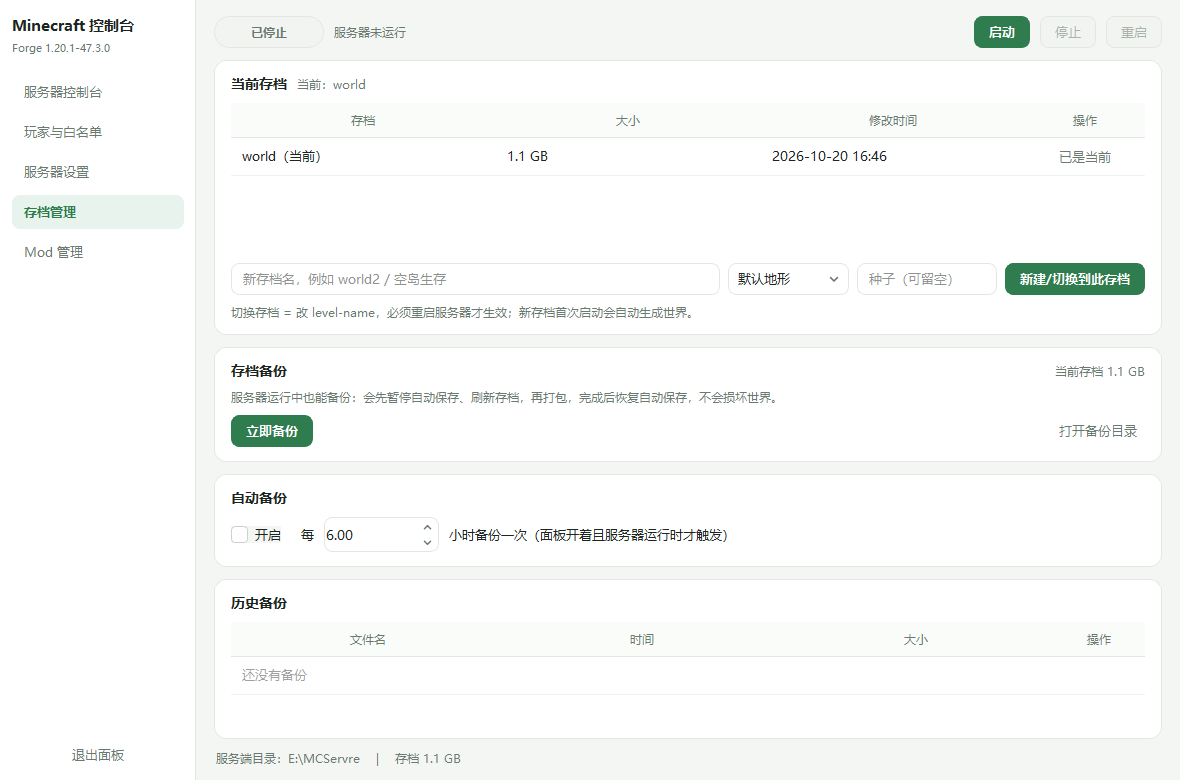
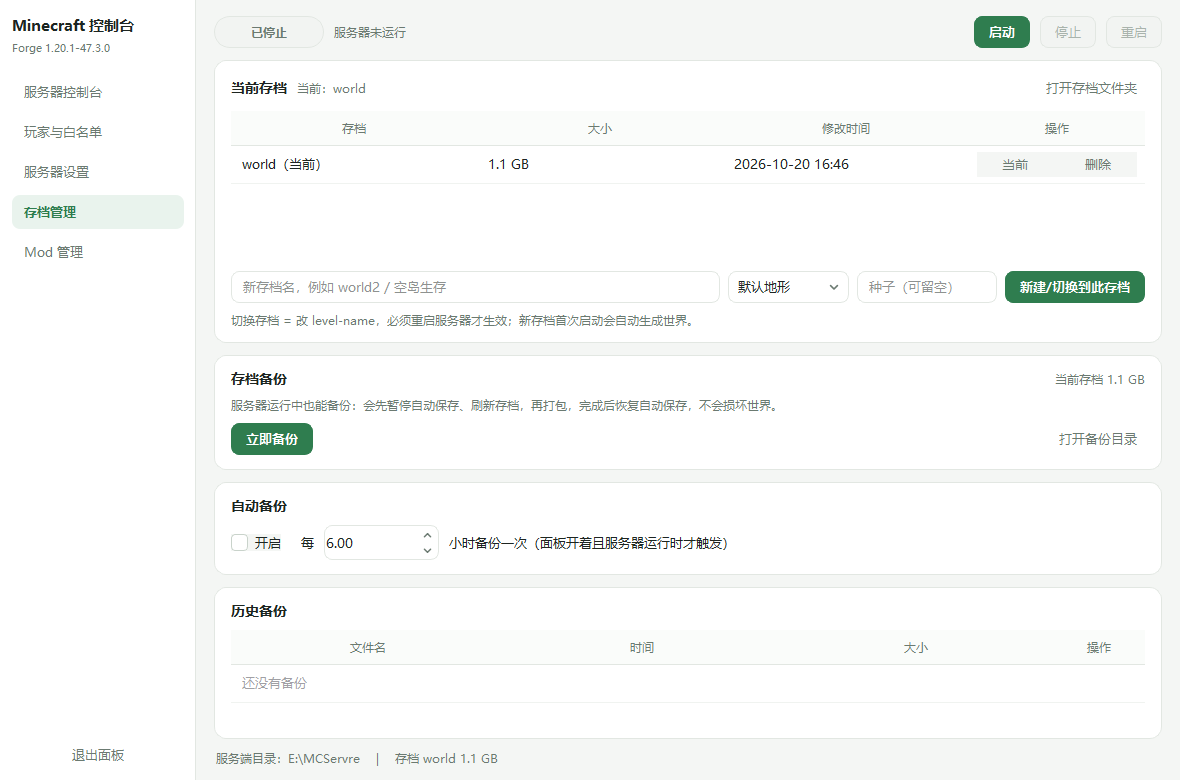
feat: 存档管理页支持打开存档文件夹与删除存档
- 存档列表每行增加「删除」（双重确认：警告框 + 手打存档名）
- 页头增加「打开存档文件夹」
- delete_world 三重保护：只删含 level.dat 的目录、禁止删当前存档、服务器运行中禁止删、拦路径穿越
- 修 open_folder("world") 写死 BASE/world 的 bug，改为跟随 level-name（world_dir()）
- 状态栏存档大小也改为跟随当前存档

diff --git a/app.py b/app.py
@@ -17,7 +17,7 @@ from PySide6.QtWidgets import (
     QLabel, QPushButton, QLineEdit, QPlainTextEdit, QCheckBox, QComboBox,
     QSpinBox, QDoubleSpinBox, QTableWidget, QTableWidgetItem, QHeaderView,
     QStackedWidget, QListWidget, QListWidgetItem, QFrame, QProgressBar,
-    QMessageBox, QScrollArea, QSizePolicy, QAbstractItemView, QButtonGroup,
+    QMessageBox, QInputDialog, QScrollArea, QSizePolicy, QAbstractItemView, QButtonGroup,
 )
 
 import core
@@ -987,9 +987,13 @@ class Panel(QMainWindow):
         hw.addWidget(tw)
         hw.addWidget(self.lbl_cur_world)
         hw.addStretch(1)
+        b_openw = QPushButton("打开存档文件夹")
+        b_openw.setProperty("cls", "ghost")
+        b_openw.clicked.connect(lambda: core.open_folder("world"))
+        hw.addWidget(b_openw)
         flw.addLayout(hw)
 
-        self.tbl_worlds = self._table(["存档", "大小", "修改时间", "操作"], last_width=120)
+        self.tbl_worlds = self._table(["存档", "大小", "修改时间", "操作"], last_width=176)
         self.tbl_worlds.setMaximumHeight(150)
         flw.addWidget(self.tbl_worlds)
 
@@ -1106,11 +1110,52 @@ class Panel(QMainWindow):
             self.tbl_worlds.setItem(i, 1, QTableWidgetItem(core.human_size(w["size"])))
             self.tbl_worlds.setItem(i, 2, QTableWidgetItem(
                 time.strftime("%Y-%m-%d %H:%M", time.localtime(w["mtime"]))))
-            btn = QPushButton("切换" if not w["active"] else "已是当前")
-            btn.setProperty("cls", "ghost")
-            btn.setEnabled(not w["active"])
-            btn.clicked.connect(lambda _=False, n=w["name"]: self.on_switch_world(n))
-            self.tbl_worlds.setCellWidget(i, 3, btn)
+            box = QWidget()
+            h = QHBoxLayout(box)
+            h.setContentsMargins(0, 2, 0, 2)
+            h.setSpacing(6)
+            b_sw = QPushButton("切换" if not w["active"] else "当前")
+            b_sw.setProperty("cls", "ghost")
+            b_sw.setEnabled(not w["active"])
+            b_sw.setToolTip("切换到这个存档（需要重启服务器）")
+            b_sw.clicked.connect(lambda _=False, n=w["name"]: self.on_switch_world(n))
+            b_del = QPushButton("删除")
+            b_del.setProperty("cls", "ghost")
+            b_del.setToolTip("永久删除这个存档")
+            b_del.clicked.connect(lambda _=False, n=w["name"]: self.on_del_world(n))
+            h.addWidget(b_sw)
+            h.addWidget(b_del)
+            self.tbl_worlds.setCellWidget(i, 3, box)
+
+    def on_del_world(self, name):
+        worlds = {w["name"]: w for w in core.list_worlds()}
+        w = worlds.get(name)
+        size = core.human_size(w["size"]) if w else "未知大小"
+
+        r = QMessageBox.warning(
+            self, "删除存档",
+            f"即将永久删除这个存档：\n\n  {name}（{size}）\n\n"
+            "· 世界、建筑、箱子里的东西全部消失，且不可撤销\n"
+            "· 「存档管理」页已经做过的备份 zip 不受影响\n\n"
+            "确定要继续吗？",
+            QMessageBox.StandardButton.Yes | QMessageBox.StandardButton.No,
+            QMessageBox.StandardButton.No)
+        if r != QMessageBox.StandardButton.Yes:
+            return
+
+        typed, ok = QInputDialog.getText(
+            self, "最后一步确认",
+            f"请输入存档名「{name}」来确认删除：\n（名字必须对得上才会执行）")
+        if not ok or typed.strip() != name:
+            QMessageBox.information(self, "没有删除", "名字不一致，已取消。")
+            return
+
+        ok2, msg = core.delete_world(name)
+        if ok2:
+            self.refresh_worlds()
+            QMessageBox.information(self, "已删除", msg)
+        else:
+            QMessageBox.warning(self, "删不掉", msg)
 
     def on_switch_world(self, name=None):
         name = (name or self.new_world.text()).strip()
@@ -1282,7 +1327,7 @@ class Panel(QMainWindow):
         avg = st["uptime"]
         self.lbl_server.setText(f"已运行 {self._fmt(avg)}" if running else "服务器未运行")
         self.lbl_footer.setText(
-            f"服务端目录：{core.BASE}    |    存档 {core.human_size(core.dir_size(core.WORLD_DIR))}"
+            f"服务端目录：{core.BASE}    |    存档 {core.current_world()} {core.human_size(core.dir_size(core.world_dir()))}"
         )
         if st["last_error"] and st["state"] == "stopped":
             self.lbl_hint.setText("启动失败：" + st["last_error"][:80])

diff --git a/core.py b/core.py
@@ -773,6 +773,11 @@ def current_world() -> str:
     return read_props().get("level-name", "world")
 
 
+def world_dir() -> Path:
+    """当前生效的存档目录（跟着 level-name 走，不是写死的 world）。"""
+    return BASE / current_world()
+
+
 def list_worlds() -> list:
     """服务端目录下所有含 level.dat 的文件夹，就是一个可切换的存档。"""
     cur = current_world()
@@ -791,6 +796,31 @@ def list_worlds() -> list:
             continue
     out.sort(key=lambda x: (not x["active"], -x["mtime"]))
     return out
+
+
+def delete_world(name: str):
+    """
+    删除一个存档文件夹（不可撤销）。
+    三重保护：只能删"确认是存档"的目录、不能删当前正在用的、服务器运行中禁止删。
+    """
+    name = (name or "").strip()
+    if not WORLD_RE.match(name):
+        return False, "存档名不合法"
+    if SRV.status()["running"]:
+        return False, "服务器正在运行，请先停止再删除存档"
+    if name == current_world():
+        return False, f"「{name}」是当前正在使用的存档，先切换到别的存档再删"
+
+    d = (BASE / name).resolve()
+    if not str(d).startswith(str(BASE.resolve())) or d == BASE.resolve():
+        return False, "存档名不合法（只允许服务端目录内的子文件夹）"
+    if not d.is_dir() or not (d / "level.dat").is_file():
+        return False, f"没找到存档「{name}」（只认里面有 level.dat 的文件夹）"
+    try:
+        shutil.rmtree(d)
+        return True, f"已删除存档「{name}」。panel\\backups 里的备份 zip 不受影响。"
+    except Exception as e:
+        return False, f"删除失败：{e}"
 
 
 def switch_world(name: str, seed: str = "", level_type: str = ""):
@@ -1035,7 +1065,7 @@ def open_folder(target: str = "base"):
     """在资源管理器里打开指定目录。"""
     p = {
         "base": BASE, "backups": BACKUP_DIR, "mods": MODS_DIR,
-        "world": WORLD_DIR, "logs": BASE / "logs", "panel": PANEL_DIR,
+        "world": world_dir(), "logs": BASE / "logs", "panel": PANEL_DIR,
     }.get(target, BASE)
     try:
         if os.name == "nt":

diff --git a/README.md b/README.md
@@ -27,7 +27,7 @@
 | 一键指令 | 定位结构 / 给物品 / 给状态 / 清状态 / 杀实体 / 发消息，全部下拉选，底部实时显示生成的原版指令 |
 | 玩家 | 在线列表、踢人、设 OP；**白名单 ⇄ 黑名单一键切换**，离线账号 UUID 本地计算，封禁列表可视化增删 |
 | 服务器设置 | `server.properties` 常用项可视化编辑；JVM 内存 Xms/Xmx |
-| 存档管理 | 手动备份 + 定时自动备份；**多存档切换 / 新建**（改 `level-name`，支持种子与世界类型，重启生效） |
+| 存档管理 | 手动备份 + 定时自动备份；**多存档切换 / 新建 / 删除**（改 `level-name`，支持种子与世界类型，重启生效）；一键打开存档文件夹 |
 | Mod 管理 | 勾选启停，关掉的移到 `mods-disabled`（不删除），可搜索 |
 
 ![运行中](docs/screenshot-running.png)
